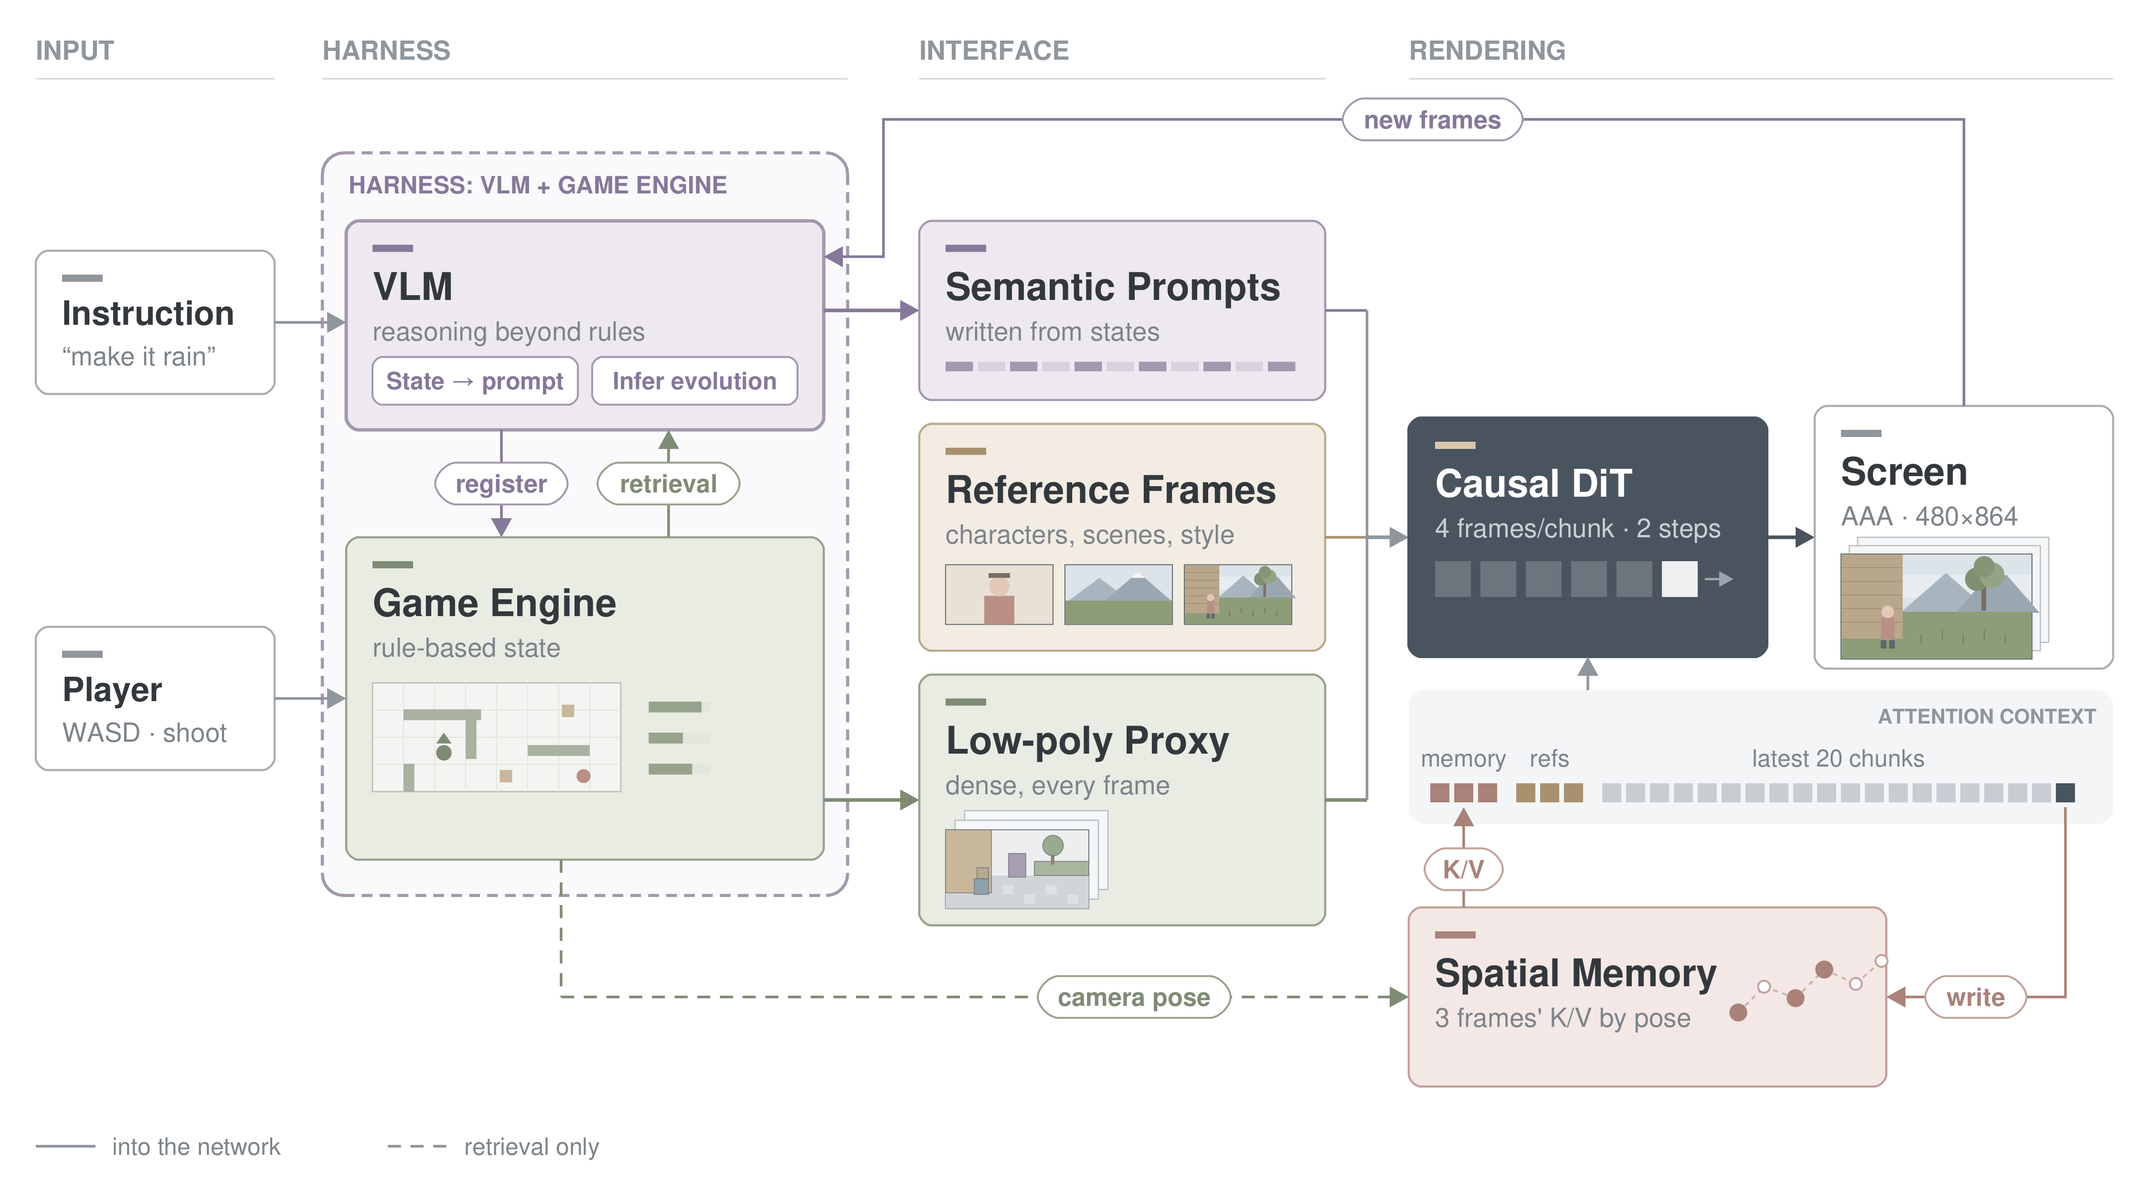
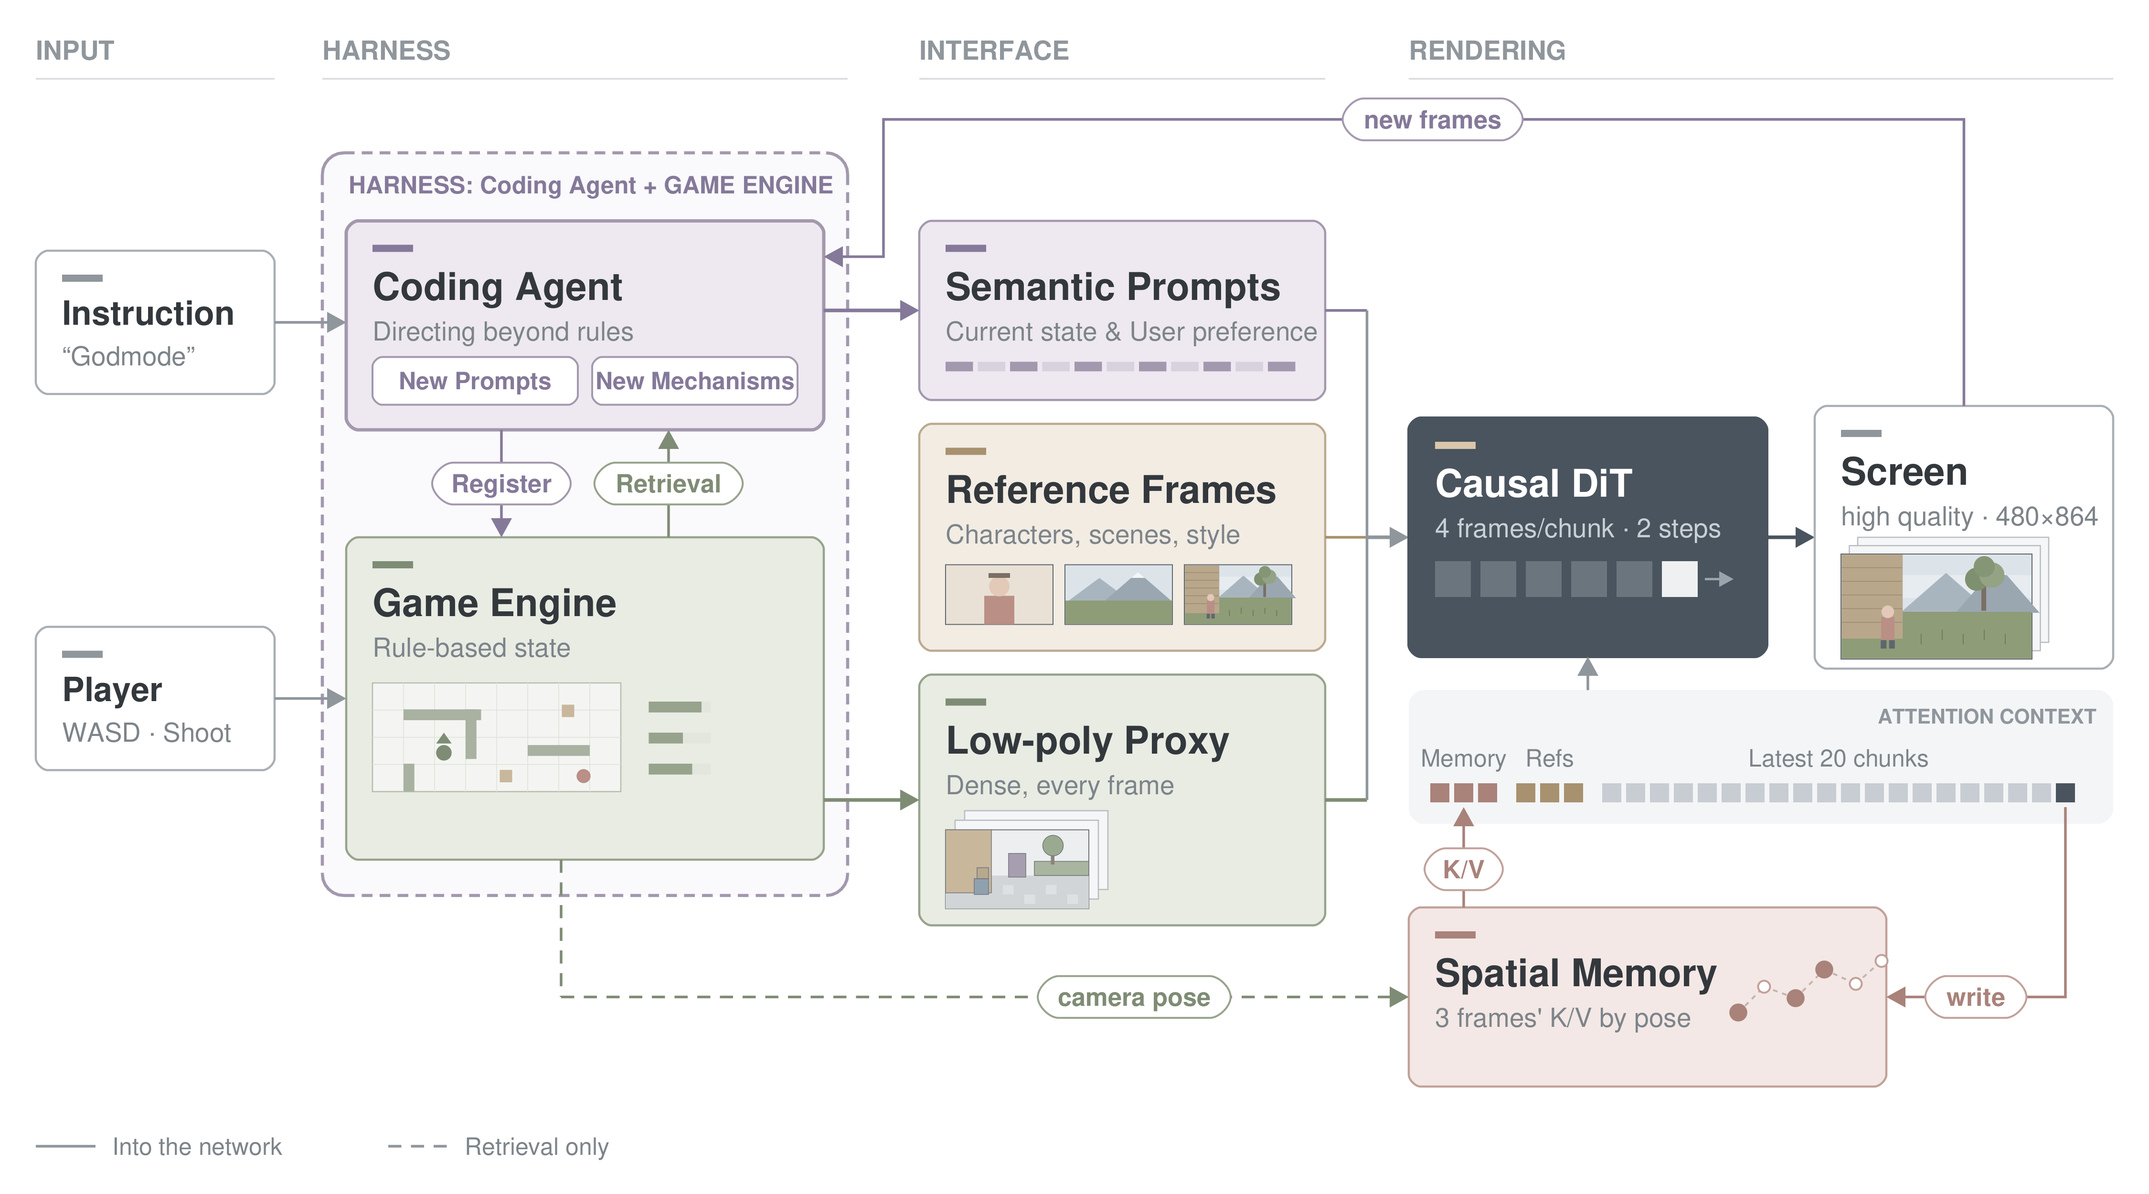
项目主页：方法图换成 PR 稿更新后带 Coding Agent 的版本，页面文案里的 VLM 同步改成 Coding Agent
- 方法图动画（assets/js/fig_overview.js）几何与动画不变，文字逐字换成 PR 稿「路线」一节两张画板上的文字：VLM 换成 Coding Agent（新的规则与推理想象 / Directing beyond rules），两个职能改为转述细化提示词、新的规则（New Prompts、New Mechanisms），注册改为修改（Register），用户指令例子改为「我要无敌模式」（Godmode），语义条件改名提示词（当前状态+用户意图），英文小标题首字母大写等
- 静态大图 overview_{zh,en}.png 换成 make_fig_v5.py 的出图（同一套几何，文字同画板）
- 图注、页首导语、概览段落、概览标签与 meta 描述里的 VLM 改成 Coding Agent，措辞参照 PR 稿

Claude-Session: https://claude.ai/code/session_015FVByJraWaojH3UAi1nwBS

diff --git a/assets/js/fig_overview.js b/assets/js/fig_overview.js
@@ -1,11 +1,12 @@
 /* 方法图「系统总览」动画组件：复刻 assets/fig/overview_<lang>.png。
-   几何、配色、文字照出图脚本 artifacts/method_fig_1012/make_fig_v4.py 逐项搬过来（画布 1800×1000，与 PNG 同比例）。
+   几何、配色照出图脚本 artifacts/method_fig_1012/make_fig_v4.py 逐项搬过来（画布 1800×1000，与 PNG 同比例）；
+   文字按 make_fig_v5.py，即 PR 稿「路线」一节更新后带 Coding Agent 的画板（10-14 对齐）。
    动画沿数据流向一圈 10 秒，每帧状态只由时间算出，所以首尾接得上、暂停后接着播：
      0.0–1.5 s  用户指令、玩家两框依次亮，点流入 Harness
-     1.0–3.0 s  VLM 与游戏引擎之间「注册」「检索」交替，小地图里的角色走一步
+     1.0–3.0 s  Coding Agent 与游戏引擎之间「修改」「检索」交替，小地图里的角色走一步
      2.7–4.6 s  语义条件逐段写出、低模代理画面叠帧前推、三张参考帧依次亮
      4.4–6.4 s  三路条件汇入 DiT；DiT 的块与注意力窗口左移一格，新块两步去噪
-     6.0–8.4 s  画面叠帧前推，「新画面」沿闭环线回到 VLM
+     6.0–8.4 s  画面叠帧前推，「新画面」沿闭环线回到 Coding Agent
      6.4–9.6 s  当前块写入空间记忆，相机位姿到达，按 K/V 取回 3 帧，记忆格抬起
    prefers-reduced-motion 时停在与 PNG 相同的静态状态。 */
 (function () {
@@ -22,8 +23,8 @@
   var NEUT = { fill: '#FFFFFF', stroke: '#A9AFB4', accent: LINE };
   var SW1 = 3.0, SW2 = 2.2;
 
-  // 胶囊标签宽度：Noto Sans CJK Bold 21px 实量字宽，与 PNG 一致
-  var PILLW = { '注册': 42, '检索': 42, '新画面': 63, '写入': 42, '相机位姿': 84, 'K/V': 38.3,
+  // 胶囊标签宽度：Noto Sans CJK Bold 21px 实量字宽，与 PNG 一致（修改、Register、Retrieval 为 10-14 按同口径补量）
+  var PILLW = { '注册': 42, '修改': 42, 'Register': 83.6, 'Retrieval': 88.4, '检索': 42, '新画面': 63, '写入': 42, '相机位姿': 84, 'K/V': 38.3,
     'register': 78.2, 'retrieval': 83, 'new frames': 117.8, 'write': 51.3, 'camera pose': 129.5 };
 
   function n(v) { return Math.round(v * 10) / 10; }
@@ -198,13 +199,13 @@
       s += text2(c[0], 50, c[2], c[3], 22, LINE, 700, 'start', 0, ' xml:space="preserve"') + line(c[0], 66, c[1], 66, HAIR, 1.4);
     });
 
-    // ---------- Harness：VLM 与游戏引擎合在一个虚线框里 ----------
+    // ---------- Harness：Coding Agent 与游戏引擎合在一个虚线框里 ----------
     s += rect(270, 128, 440, 622, '#FAF9FB', SEM.stroke, 2.6, 18, ' data-k="hbox" stroke-dasharray="9 6"');
-    s += text2(292, 162, 'Harness：VLM + 游戏引擎', 'HARNESS: VLM + GAME ENGINE', 20, SEM.accent, 700, 'start', 396);
+    s += text2(292, 162, 'Harness：Coding Agent + 游戏引擎', 'HARNESS: Coding Agent + GAME ENGINE', 20, SEM.accent, 700, 'start', 396);
 
-    var sb = card('vlm', 290, 185, 400, 175, SEM, 'VLM', 'VLM', '规则之外的推理与想象', 'reasoning beyond rules',
+    var sb = card('vlm', 290, 185, 400, 175, SEM, 'Coding Agent', 'Coding Agent', '新的规则与推理想象', 'Directing beyond rules',
       { sw: 2.8, win: [[0.75, 2.9], [8.3, 9.2]] });
-    [['状态转 prompt', 'State → prompt', [[2.55, 3.2]]], ['演化推理', 'Infer evolution', [[0.95, 1.5], [1.95, 2.5]]]].forEach(function (c, i) {
+    [['转述细化提示词', 'New Prompts', [[2.55, 3.2]]], ['新的规则', 'New Mechanisms', [[0.95, 1.5], [1.95, 2.5]]]].forEach(function (c, i) {
       var x0 = 312 + i * 184;
       s += rect(x0, sb + 14, 172, 40, '#FFFFFF', SEM.stroke, 1.6, 8) +
         rect(x0, sb + 14, 172, 40, SEM.fill, SEM.accent, 2.2, 8, ' data-k="chip' + i + '" opacity="0"') +
@@ -212,7 +213,7 @@
       glows.push({ k: 'chip' + i, win: c[2], ri: 0.15, ro: 0.3 });
     });
 
-    sb = card('eng', 290, 450, 400, 270, STATE, '游戏引擎', 'Game Engine', '规则之内的状态演化', 'rule-based state',
+    sb = card('eng', 290, 450, 400, 270, STATE, '游戏引擎', 'Game Engine', '规则之内的状态演化', 'Rule-based state',
       { win: [[0.95, 3.1]] });
     // 俯视关卡图加三条状态量（level_map，k = 1.3）
     var mx0 = 312, my0 = sb + 22, K = 1.3;
@@ -231,37 +232,37 @@
     });
 
     s += arrow([[420, 360], [420, 450]], SEM.accent, SW2);
-    pill('p-reg', 420, 405, '注册', 'register', SEM, [[1.0, 1.5], [2.0, 2.5]]);
+    pill('p-reg', 420, 405, '修改', 'Register', SEM, [[1.0, 1.5], [2.0, 2.5]]);
     s += arrow([[560, 450], [560, 360]], STATE.accent, SW2);
-    pill('p-ret', 560, 405, '检索', 'retrieval', STATE, [[1.5, 2.0], [2.5, 3.0]]);
+    pill('p-ret', 560, 405, '检索', 'Retrieval', STATE, [[1.5, 2.0], [2.5, 3.0]]);
     dot('d-reg1', [[420, 360], [420, 450]], SEM.accent, [1.05, 1.45]);
     dot('d-ret1', [[560, 450], [560, 360]], STATE.accent, [1.55, 1.95]);
     dot('d-reg2', [[420, 360], [420, 450]], SEM.accent, [2.05, 2.45]);
     dot('d-ret2', [[560, 450], [560, 360]], STATE.accent, [2.55, 2.95]);
 
     // ---------- 输入 ----------
-    card('ins', 30, 210, 200, 120, NEUT, '用户指令', 'Instruction', '“让天下雨”', '“make it rain”', { ts: 28, win: [[0, 1.0]], ring: SUB });
+    card('ins', 30, 210, 200, 120, NEUT, '用户指令', 'Instruction', '“我要无敌模式”', '“Godmode”', { ts: 28, win: [[0, 1.0]], ring: SUB });
     s += arrow([[230, 270], [290, 270]], LINE, SW2);
-    card('ply', 30, 525, 200, 120, NEUT, '玩家', 'Player', 'WASD · 射击', 'WASD · shoot', { ts: 28, win: [[0.45, 1.45]], ring: SUB });
+    card('ply', 30, 525, 200, 120, NEUT, '玩家', 'Player', 'WASD · 射击', 'WASD · Shoot', { ts: 28, win: [[0.45, 1.45]], ring: SUB });
     s += arrow([[230, 585], [290, 585]], LINE, SW2);
     dot('d-ins', [[230, 270], [290, 270]], LINE, [0.3, 0.75]);
     dot('d-ply', [[230, 585], [290, 585]], LINE, [0.75, 1.2]);
 
     // ---------- 条件接口：颜色跟来源走 ----------
-    sb = card('pr', 770, 185, 340, 150, SEM, '语义条件', 'Semantic Prompts', 'VLM 按状态写 prompt', 'written from states',
+    sb = card('pr', 770, 185, 340, 150, SEM, '提示词', 'Semantic Prompts', '当前状态+用户意图', 'Current state & User preference',
       { win: [[2.95, 4.6]] });
     for (i = 0; i < 11; i++) s += rect(792 + i * 27, sb + 18, 23, 8, i % 2 === 0 ? SEM.stroke : '#D8D1DE', 0, 0, 0, ' data-k="st' + i + '"');
     s += arrow([[690, 260], [770, 260]], SEM.accent, SW1);
     dot('d-pr', [[690, 260], [770, 260]], SEM.accent, [2.75, 3.15]);
 
-    sb = card('ref', 770, 355, 340, 190, LOOK, '多参考帧', 'Reference Frames', '锚定角色、场景与画风', 'characters, scenes, style',
+    sb = card('ref', 770, 355, 340, 190, LOOK, '多参考帧', 'Reference Frames', '锚定角色、场景与画风', 'Characters, scenes, style',
       { win: [[3.3, 4.6]] });
     s += portrait(792, sb + 18, 90, 50) + landscape(892, sb + 18, 90, 50) + rich(992, sb + 18, 90, 50);
     [0, 1, 2].forEach(function (q) {
       ring('rt' + q, 792 + q * 100, sb + 18, 90, 50, LOOK.accent, [[3.45 + 0.3 * q, 3.95 + 0.3 * q]], 2.6, 1);
     });
 
-    sb = card('px', 770, 565, 340, 210, STATE, '低模代理画面', 'Low-poly Proxy', '逐帧稠密控制', 'dense, every frame',
+    sb = card('px', 770, 565, 340, 210, STATE, '低模代理画面', 'Low-poly Proxy', '逐帧稠密控制', 'Dense, every frame',
       { win: [[3.25, 4.6]] });
     stack('sp', 792, sb + 30, 120, 66, 8, lowpoly);
     s += arrow([[690, 670], [770, 670]], STATE.accent, SW1);
@@ -285,10 +286,10 @@
     s += arrow([[1480, 450], [1520, 450]], OURS.fill, SW1);
     dot('d-scr', [[1480, 450], [1520, 450]], OURS.fill, [6.05, 6.3]);
 
-    sb = card('scr', 1520, 340, 250, 220, NEUT, '画面', 'Screen', '3A 画质 · 480×864', 'AAA · 480×864', { win: [[6.25, 7.6]], ring: SUB });
+    sb = card('scr', 1520, 340, 250, 220, NEUT, '画面', 'Screen', '3A 画质 · 480×864', 'high quality · 480×864', { win: [[6.25, 7.6]], ring: SUB });
     stack('ss', 1542, sb + 24, 160, 88, 7, rich);
 
-    // 闭环：生成的新画面回到 VLM
+    // 闭环：生成的新画面回到 Coding Agent
     s += arrow([[1645, 340], [1645, 100], [740, 100], [740, 215], [690, 215]], SEM.accent, SW2);
     pill('p-new', 1200, 100, '新画面', 'new frames', SEM, [[7.35, 8.0]]);
     dot('d-new', [[1645, 340], [1645, 100], [740, 100], [740, 215], [690, 215]], SEM.accent, [6.8, 8.4]);
@@ -302,8 +303,8 @@
     s += '<clipPath id="' + P + 'kc"><rect x="1342" y="' + (SY - 4) + '" width="396" height="' + (Q + 8) + '"/></clipPath><g clip-path="url(#' + P + 'kc)">';
     for (i = 0; i < 21; i++) s += rect(1342 + i * 20, SY, Q, Q, i < 19 ? '#C7CDD2' : i === 19 ? '#4A545E' : '#DDE1E4', 0, 0, 0, ' data-k="kw' + i + '"');
     s += '</g>';
-    s += text2(1226, SY - 14, '记忆', 'memory', 20, SUB, 400, 'middle') + text2(1298, SY - 14, '参考帧', 'refs', 20, SUB, 400, 'middle') +
-      text2(1540, SY - 14, '最近 20 块', 'latest 20 chunks', 20, SUB, 400, 'middle', 396);
+    s += text2(1226, SY - 14, '记忆', 'Memory', 20, SUB, 400, 'middle') + text2(1298, SY - 14, '参考帧', 'Refs', 20, SUB, 400, 'middle') +
+      text2(1540, SY - 14, '最近 20 块', 'Latest 20 chunks', 20, SUB, 400, 'middle', 396);
     s += arrow([[1330, 578], [1330, 550]], LINE, SW2);
     dot('d-ctx', [[1330, 578], [1330, 550]], OURS.fill, [4.55, 4.95]);
 
@@ -330,7 +331,7 @@
     dot('d-pose', [[470, 720], [470, 835], [1180, 835]], STATE.accent, [7.0, 8.3], true);
 
     // 图例：两种语言的第一项字宽不同，虚线位置跟着字宽走
-    [['zh', '进入网络', '只用于检索', 220], ['en', 'into the network', 'retrieval only', 294.9]].forEach(function (c) {
+    [['zh', '进入网络', '只用于检索', 220], ['en', 'Into the network', 'Retrieval only', 295.2]].forEach(function (c) {
       s += '<g lang="' + c[0] + '">' + line(30, 960, 80, 960, LINE, SW2) + text(94, 967, c[1], 20, SUB, 400) +
         line(n(30 + c[3]), 960, n(80 + c[3]), 960, LINE, SW2, '11 8') + text(n(94 + c[3]), 967, c[2], 20, SUB, 400) + '</g>';
     });

diff --git a/index.html b/index.html
@@ -4,7 +4,7 @@
 <meta charset="utf-8">
 <meta name="viewport" content="width=device-width, initial-scale=1">
 <title>Matrix-Game 4.0</title>
-<meta name="description" content="Matrix-Game 4.0: code builds the game, a VLM handles what rules cannot, and a few-step causal video model renders the world in real time.">
+<meta name="description" content="Matrix-Game 4.0: code builds the game, a coding agent handles what rules cannot, and a few-step causal video model renders the world in real time.">
 <script>
 // 先定语言再渲染，避免中英文闪一下：链接里的 ?lang=zh / ?lang=en 优先，其次是记住的选择，最后看浏览器语言
 (function () {
@@ -218,7 +218,7 @@
 <header class="hero"><div class="wrap">
   <div class="pname">Matrix-Game 4.0</div>
   <h1><span lang="en">Code builds the game, <span class="grad">AI renders the world</span> in real time</span><span lang="zh">代码搭建游戏，<span class="grad">AI 实时渲染世界</span></span></h1>
-  <p class="lead"><span lang="en">A game engine keeps the world state and draws a cheap low-poly proxy. A VLM decides whatever the rules cannot. A few-step causal video model turns every chunk into a finished frame on a single consumer GPU.</span><span lang="zh">游戏引擎维护世界状态，画出一份廉价的低模代理画面。规则决定不了的事交给 VLM。少步数的因果视频模型在一张消费级显卡上，把每个块渲染成成品画面。</span></p>
+  <p class="lead"><span lang="en">A game engine keeps the world state and draws a cheap low-poly proxy. A coding agent turns what the player asks for into new rules and prompts. A few-step causal video model turns every chunk into a finished frame on a single consumer GPU.</span><span lang="zh">游戏引擎维护世界状态，画出一份廉价的低模代理画面。玩家想要的新玩法由 Coding Agent 写成新的规则和提示词。少步数的因果视频模型在一张消费级显卡上，把每个块渲染成成品画面。</span></p>
   <div class="authors">Matrix-Game Team</div>
   <div class="btns">
     <span class="btn soon"><span lang="en">Paper</span><span lang="zh">论文</span> <span class="tag"><span lang="en">soon</span><span lang="zh">即将发布</span></span></span>
@@ -242,11 +242,11 @@
 
 <section id="overview"><div class="wrap reveal">
   <h2><span class="k"><span lang="en">OVERVIEW</span><span lang="zh">概览</span></span><span lang="en">A harness around the video model</span><span lang="zh">用 Harness 包住视频模型</span></h2>
-  <p class="body"><span lang="en">Interactive world models that only roll out pixels keep the world state implicit: once something leaves the view it is gone, and game rules have to be re-inferred from every frame. We wrap the video model in a harness that owns the state. The game engine evolves everything the rules can decide and renders it as a low-poly proxy. The VLM takes over where rules run out: it turns states into prompts, reasons about how the world should evolve, and registers its decisions back into the engine.</span><span lang="zh">只靠逐帧外推像素的交互式世界模型，世界状态都是隐式的：东西一离开视野就消失，游戏规则也要从每一帧里重新推断。我们给视频模型套上一层 Harness，由它持有世界状态。规则能决定的状态演化全部交给游戏引擎，引擎再把结果渲染成低模代理画面。规则管不到的地方由 VLM 接手：它把状态写成 prompt，推理世界接下来该怎样演化，再把决定注册回游戏引擎。</span></p>
+  <p class="body"><span lang="en">Interactive world models that only roll out pixels keep the world state implicit: once something leaves the view it is gone, and game rules have to be re-inferred from every frame. We wrap the video model in a harness that owns the state. The game engine evolves everything the rules can decide and renders it as a low-poly proxy. The Coding Agent takes over where rules run out: it turns a user's instruction into new rules registered into the engine, and retrieves the engine state to write prompts that carry the current state and the user's intent.</span><span lang="zh">只靠逐帧外推像素的交互式世界模型，世界状态都是隐式的：东西一离开视野就消失，游戏规则也要从每一帧里重新推断。我们给视频模型套上一层 Harness，由它持有世界状态。规则能决定的状态演化全部交给游戏引擎，引擎再把结果渲染成低模代理画面。规则管不到的地方由 Coding Agent 接手：它把用户指令写成新的规则、修改游戏引擎，并检索引擎状态，结合用户意图转述细化成提示词。</span></p>
   <p class="body"><span lang="en">The video model then only has to render. It reads the per-frame proxy, a dynamic caption and a few reference frames, and generates one latent (four frames) per step with a causal DiT distilled to one or two denoising steps.</span><span lang="zh">于是视频模型只需要负责渲染。它读入逐帧的低模代理画面、一条动态描述和几张参考帧，用蒸馏到一到两步去噪的因果 DiT，每一步生成一个 latent（四帧）。</span></p>
   <div class="pill-row">
     <span class="pill sage"><span lang="en">Game engine: rule-based state</span><span lang="zh">游戏引擎：按规则演化状态</span></span>
-    <span class="pill mauve"><span lang="en">VLM: reasoning beyond rules</span><span lang="zh">VLM：规则之外的推理</span></span>
+    <span class="pill mauve"><span lang="en">Coding Agent: directing beyond rules</span><span lang="zh">Coding Agent：新的规则与推理想象</span></span>
     <span class="pill sand"><span lang="en">Multi-reference appearance</span><span lang="zh">多参考帧锁定外观</span></span>
     <span class="pill rose"><span lang="en">Spatial memory by camera pose</span><span lang="zh">按相机位姿检索的空间记忆</span></span>
   </div>
@@ -473,8 +473,8 @@ tv.addEventListener('volumechange', () => snd.classList.toggle('off', !tv.muted)
 // 方法图：只留系统总览一张（交互循环、渲染模型两张 10-14 移出仓库）
 const caps = {
   overview: {
-    en: 'The VLM and the game engine form the harness of the video model. The engine evolves the state wherever rules apply; the VLM decides what rules cannot and registers it into the engine, and retrieves states to write prompts.',
-    zh: 'VLM 与游戏引擎组成视频模型的 Harness。规则管得到的地方由引擎演化状态；规则管不到的由 VLM 决定并注册进引擎，VLM 也检索状态来写 prompt。'
+    en: 'The Coding Agent and the game engine form the harness of the video model. The engine evolves the state wherever rules apply; the Coding Agent turns user instructions into new rules registered into the engine, and retrieves states to write prompts.',
+    zh: 'Coding Agent 与游戏引擎组成视频模型的 Harness。规则管得到的地方由引擎演化状态；Coding Agent 把用户指令写成新的规则、修改引擎，也检索状态来写提示词。'
   }
 };
 let cur = 'overview', lang = document.documentElement.dataset.lang;
